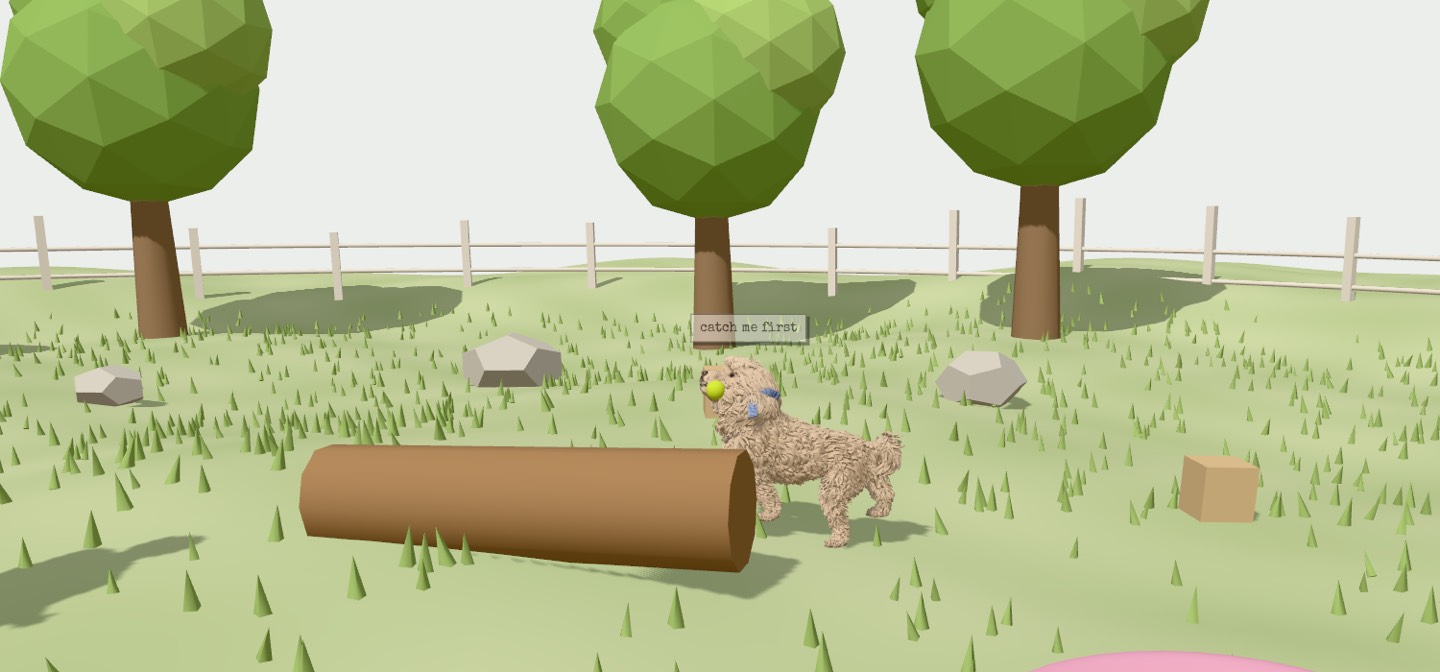
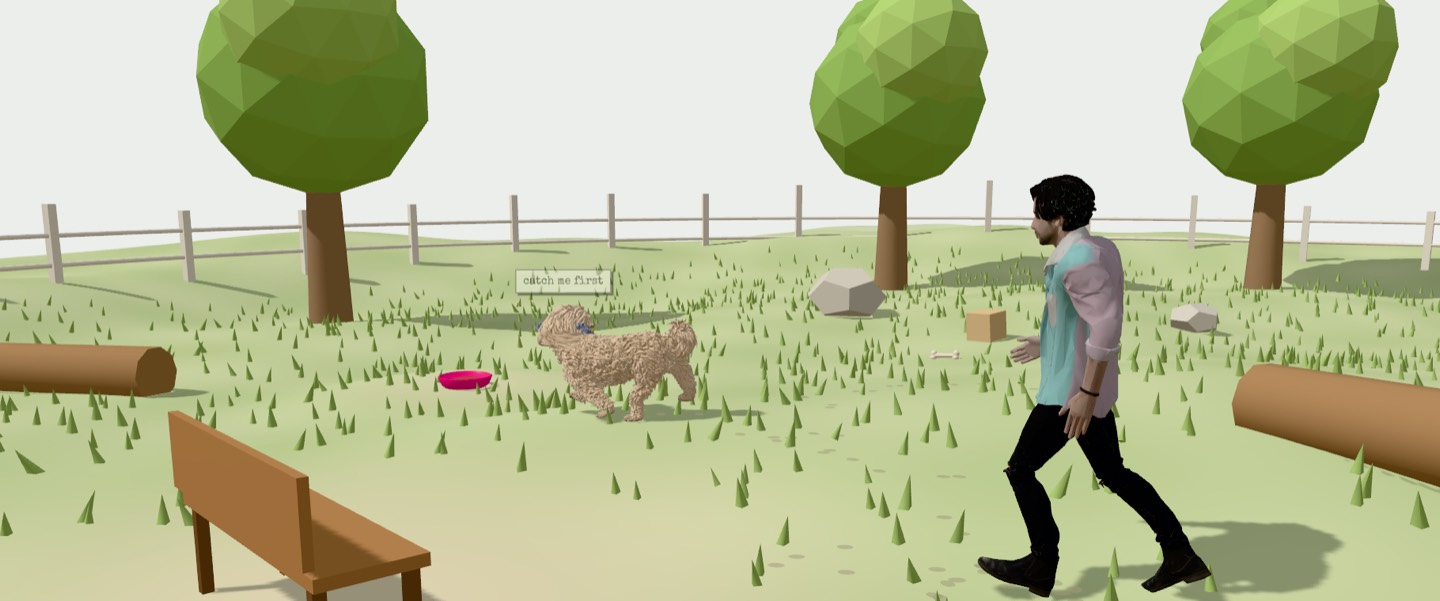
home: what this is, the dog and his person, play in place

diff --git a/src/views/HomeView.vue b/src/views/HomeView.vue
@@ -1,7 +1,8 @@
 <script setup lang="ts">
-// Home (rebuild plan 4): the yard first at full width, the explorers as
-// pictures, the examples by job, the parts, and one line about privacy.
-// The yard is a still of the dog simulator for now; the press opens it.
+// Home (rebuild plan 4): one line on what this is, the yard at full width,
+// the explorers as pictures, the examples by job and the parts. The yard is
+// a still of the dog simulator until a press plays it here, in a frame.
+import { ref } from 'vue'
 import { useRouter } from 'vue-router'
 import { HbTile, HbTiles } from '@virgilvox/hackbuild-ui'
 import { toolPath } from '../tools/define'
@@ -11,7 +12,8 @@ import { EXAMPLES, JOBS, examplePath } from '../examples/registry'
 import yard from '../assets/yard.jpg'
 
 const DOG = 'https://hackbuild.github.io/dog-simulator/'
-const openDog = () => window.location.assign(DOG)
+const playing = ref(false)
+const play = () => { playing.value = true }
 const router = useRouter()
 const openTool = (id: string) => {
   const t = TOOLS.find((x) => x.id === id)
@@ -24,13 +26,17 @@ const jobs = JOBS.map((j) => ({ ...j, examples: EXAMPLES.filter((e) => e.job ===
 
 <template>
   <main class="sx-home">
+    <p class="hb-note sx-home-line">browser ai and 3d characters that run in this tab. nothing is uploaded.</p>
     <section class="sx-yard" data-ux="subject" aria-label="the dog simulator">
-      <a :href="DOG" class="sx-yard-pic" tabindex="-1" aria-hidden="true"><img :src="yard" alt="" width="1440" height="672" /></a>
-      <div class="hb-lay-verbs">
-        <button type="button" class="hb-btn hb-btn-go" @click="openDog">open the dog simulator</button>
-      </div>
+      <iframe v-if="playing" class="sx-yard-pic" :src="DOG" title="the dog simulator" allow="autoplay; microphone; camera; fullscreen" />
+      <template v-else>
+        <button type="button" class="sx-yard-pic" aria-label="play the dog simulator here" @click="play"><img :src="yard" alt="a dog and its person in a low poly yard" width="1440" height="601" /></button>
+        <div class="hb-lay-verbs">
+          <button type="button" class="hb-btn hb-btn-go" @click="play">play the dog simulator</button>
+          <a class="hb-btn" :href="DOG" target="_blank" rel="noopener">open it in a new tab</a>
+        </div>
+      </template>
     </section>
-    <p class="hb-note sx-home-line">everything runs in this tab. nothing is uploaded.</p>
 
     <section class="sx-home-sec" aria-labelledby="h-explorers">
       <h2 id="h-explorers" class="hb-panel-hd">explorers</h2>

diff --git a/src/suite.css b/src/suite.css
@@ -12,9 +12,9 @@ html, body, #app { height: 100%; margin: 0; }
 .sx-full { min-height: 100%; background: var(--hb-paper); }
 
 /* home: the yard fills the first screen, the shelf follows */
-.sx-yard { position: relative; height: calc(100svh - 52px - 48px); min-height: 280px; overflow: hidden; background: var(--hb-paper-sunk); border-bottom: 2px solid var(--hb-ink); }
-.sx-yard-pic, .sx-yard-pic img { display: block; width: 100%; height: 100%; object-fit: cover; object-position: 58% 50%; }
-.sx-home-line { padding: 14px 16px; }
+.sx-yard { position: relative; height: calc(100svh - 52px - 40px - 170px); min-height: 280px; overflow: hidden; background: var(--hb-paper-sunk); border-bottom: 2px solid var(--hb-ink); }
+.sx-yard-pic, .sx-yard-pic img { display: block; width: 100%; height: 100%; object-fit: cover; object-position: 55% 60%; border: 0; padding: 0; margin: 0; background: none; cursor: pointer; }
+.sx-home-line { padding: 10px 16px; min-height: 40px; box-sizing: border-box; }
 .sx-home-sec { padding: 8px 16px 24px; max-width: 1280px; }
 .sx-home-sec > h2 { margin: 8px 0 12px; }
 .sx-pic > svg { display: block; width: 100%; height: 100%; }
@@ -31,9 +31,14 @@ html, body, #app { height: 100%; margin: 0; }
 .sx-ex-live > .hb-lay { height: 100%; grid-template-rows: minmax(0, 1fr); }
 .sx-ex-src { flex: 1 1 auto; min-height: 0; overflow: auto; padding: 16px; display: grid; gap: 16px; align-content: start; }
 .sx-ex-foot { flex: 0 0 auto; flex-wrap: nowrap; }
+.sx-ex-install a { color: inherit; }
 .sx-ex-install { flex: 1 1 auto; min-width: 0; overflow: hidden; text-overflow: ellipsis; white-space: nowrap; }
 .sx-ex-none { padding: 24px 16px; }
 @media (max-width: 900px) {
   .sx-ex { height: auto; }
   .sx-ex-live > .hb-lay { height: auto; min-height: 0; }
+  /* on a phone the foot stays on screen: source and install without hunting */
+  .sx-ex-foot { position: sticky; bottom: 0; z-index: 4; }
+  /* a full screen stage leaves the sticky foot its row */
+  .sx-ex-live .hb-lay.is-conversation .hb-lay-stage, .sx-ex-live .hb-lay.is-gate .hb-lay-stage { height: calc(100svh - 52px - 52px); }
 }
